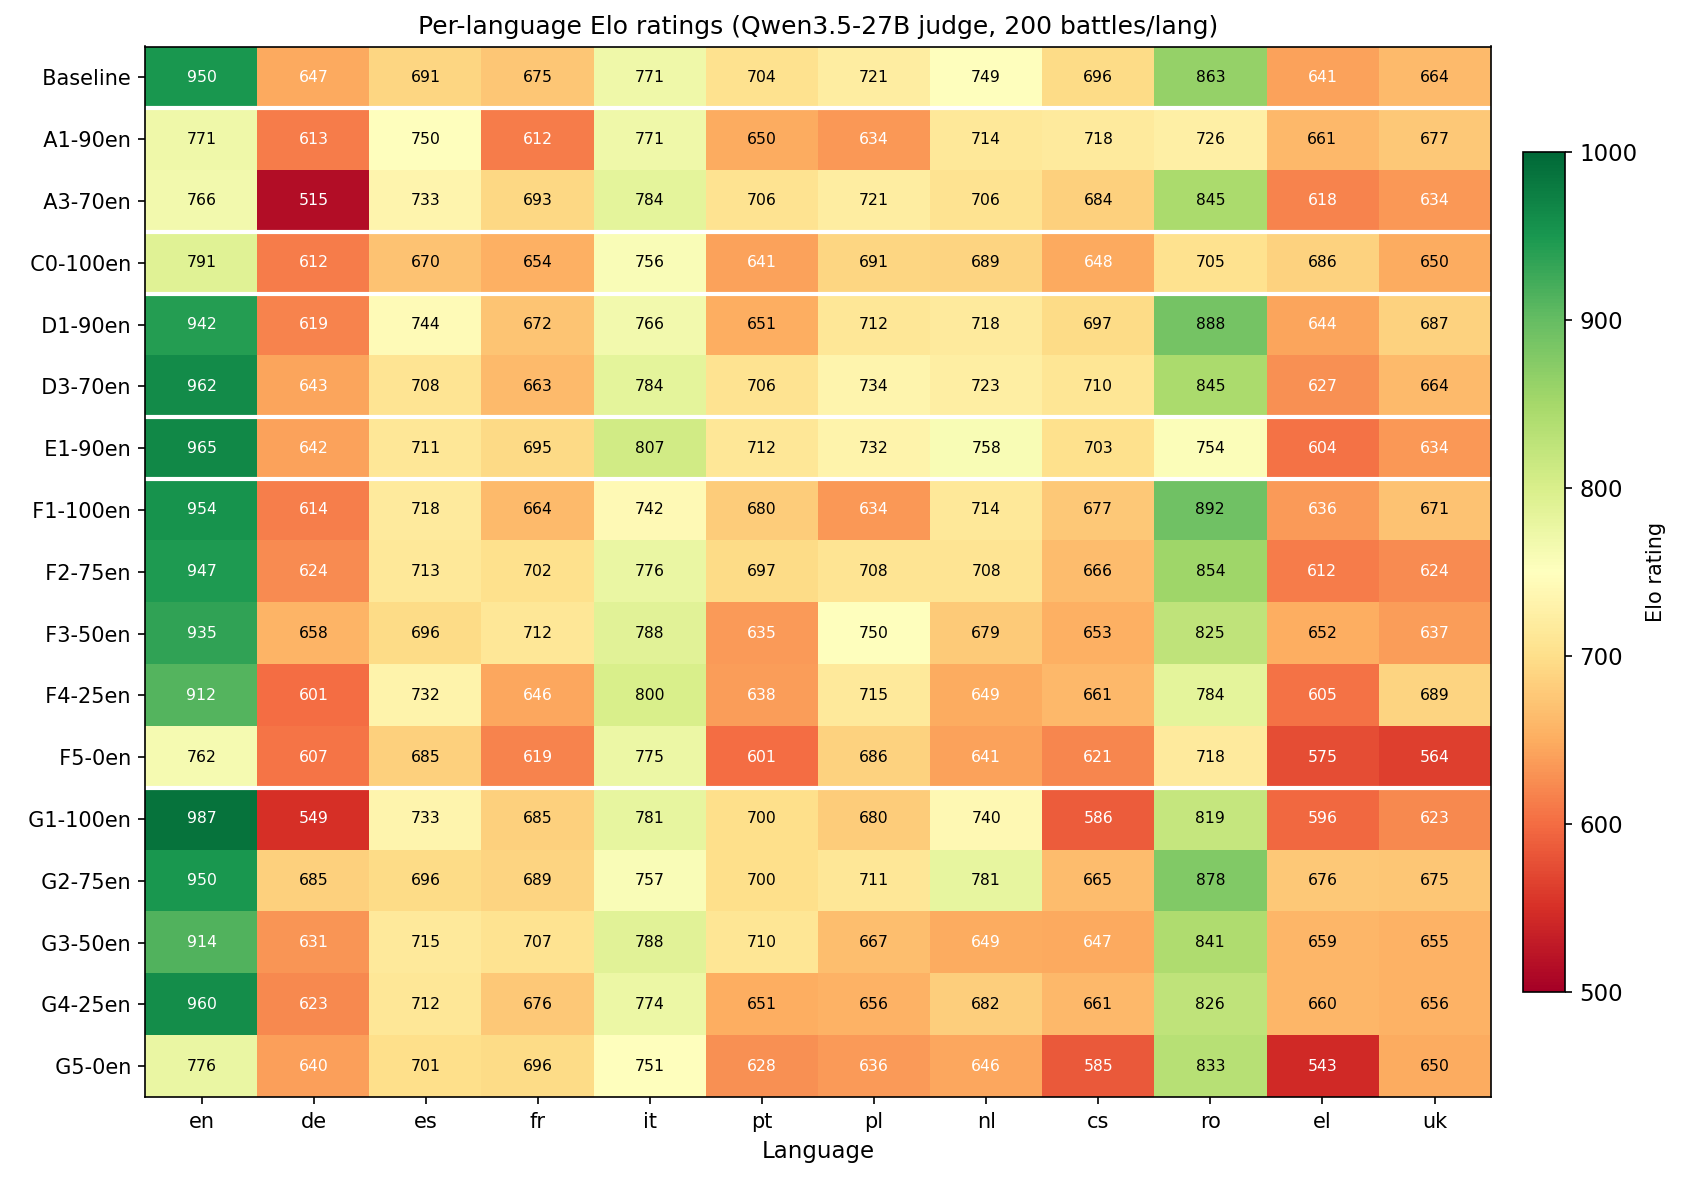
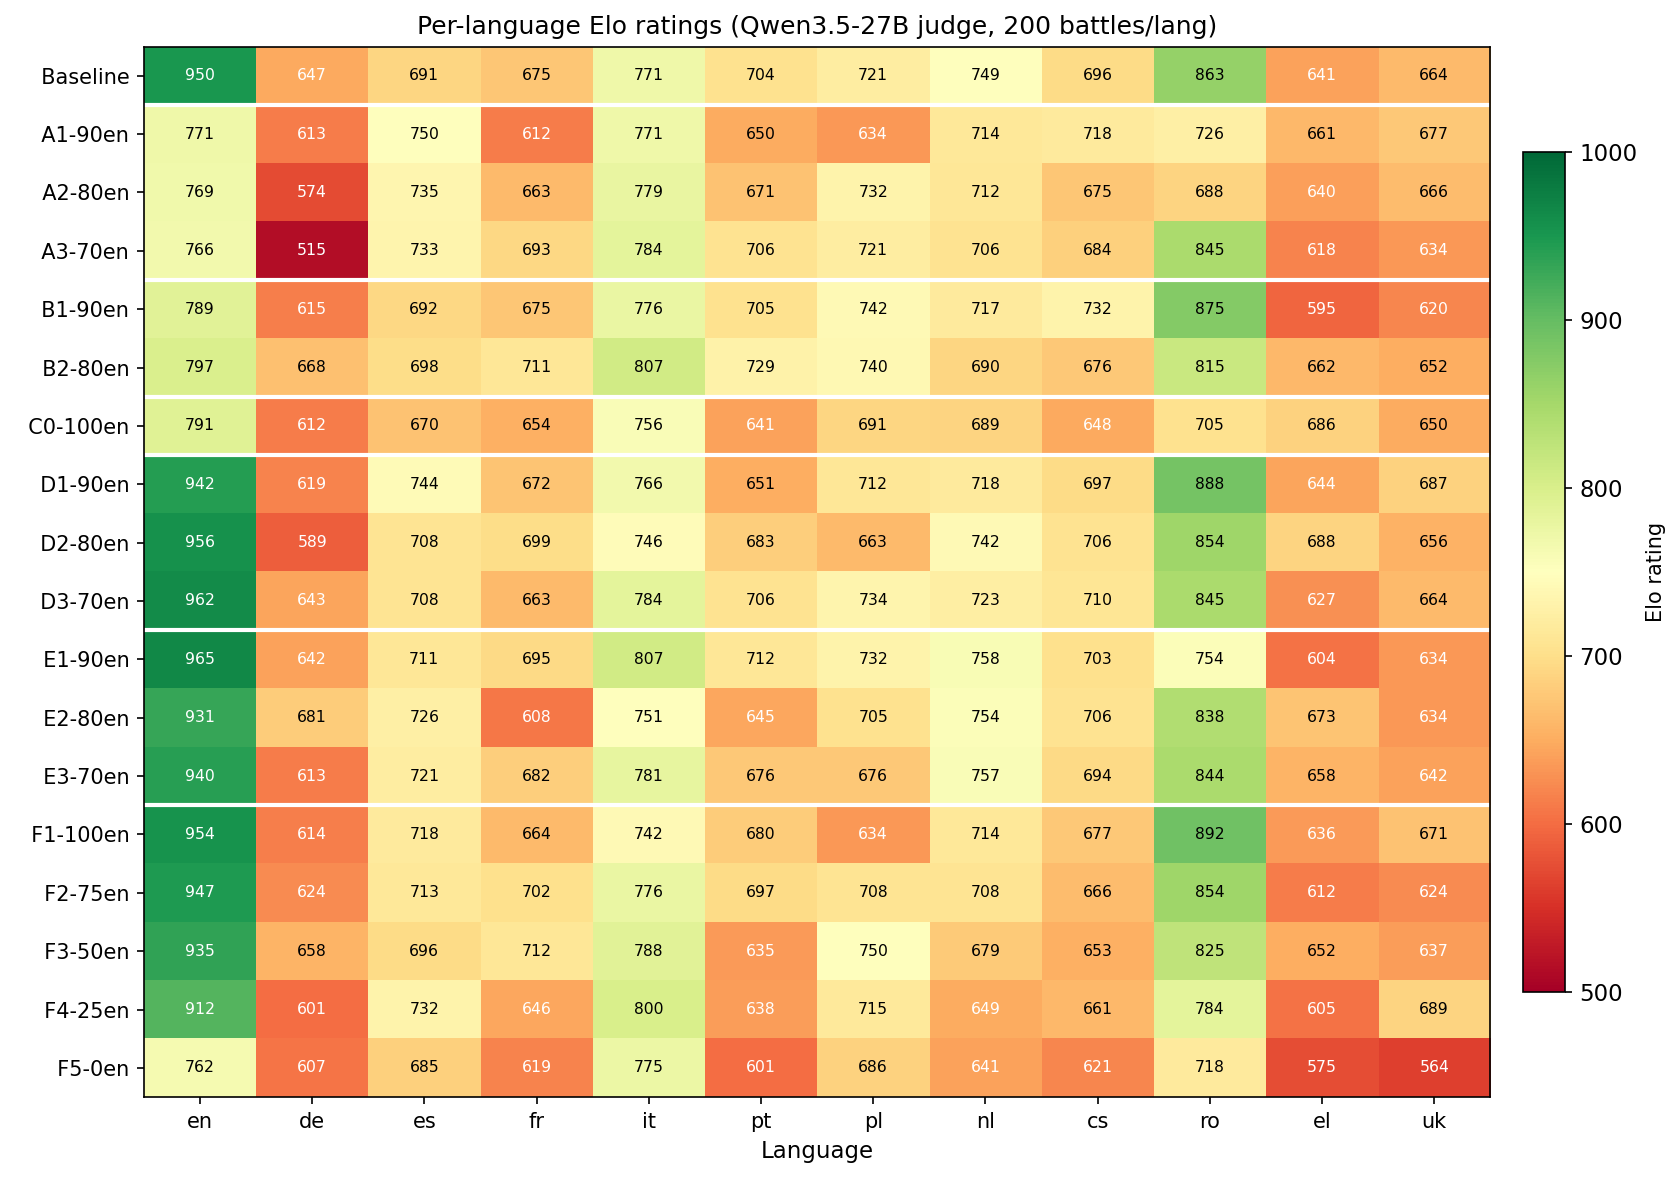
Add all models to heatmap, remove G-track, fix post title

diff --git a/oellm/experiments/multilingual_eu/results/plots/plot_fg_results.py b/oellm/experiments/multilingual_eu/results/plots/plot_fg_results.py
@@ -70,31 +70,32 @@ ALL_MODELS = {
 LANGS = ["en", "de", "es", "fr", "it", "pt", "pl", "nl", "cs", "ro", "el", "uk"]
 HEATMAP_MODELS = [
     "Baseline",
-    "A1-90en", "A3-70en",
+    "A1-90en", "A2-80en", "A3-70en",
+    "B1-90en", "B2-80en",
     "C0-100en",
-    "D1-90en", "D3-70en",
-    "E1-90en",
+    "D1-90en", "D2-80en", "D3-70en",
+    "E1-90en", "E2-80en", "E3-70en",
     "F1-100en", "F2-75en", "F3-50en", "F4-25en", "F5-0en",
-    "G1-100en", "G2-75en", "G3-50en", "G4-25en", "G5-0en",
 ]
 PER_LANG = {
     "Baseline":  [950, 647, 691, 675, 771, 704, 721, 749, 696, 863, 641, 664],
     "A1-90en":   [771, 613, 750, 612, 771, 650, 634, 714, 718, 726, 661, 677],
+    "A2-80en":   [769, 574, 735, 663, 779, 671, 732, 712, 675, 688, 640, 666],
     "A3-70en":   [766, 515, 733, 693, 784, 706, 721, 706, 684, 845, 618, 634],
+    "B1-90en":   [789, 615, 692, 675, 776, 705, 742, 717, 732, 875, 595, 620],
+    "B2-80en":   [797, 668, 698, 711, 807, 729, 740, 690, 676, 815, 662, 652],
     "C0-100en":  [791, 612, 670, 654, 756, 641, 691, 689, 648, 705, 686, 650],
     "D1-90en":   [942, 619, 744, 672, 766, 651, 712, 718, 697, 888, 644, 687],
+    "D2-80en":   [956, 589, 708, 699, 746, 683, 663, 742, 706, 854, 688, 656],
     "D3-70en":   [962, 643, 708, 663, 784, 706, 734, 723, 710, 845, 627, 664],
     "E1-90en":   [965, 642, 711, 695, 807, 712, 732, 758, 703, 754, 604, 634],
+    "E2-80en":   [931, 681, 726, 608, 751, 645, 705, 754, 706, 838, 673, 634],
+    "E3-70en":   [940, 613, 721, 682, 781, 676, 676, 757, 694, 844, 658, 642],
     "F1-100en":  [954, 614, 718, 664, 742, 680, 634, 714, 677, 892, 636, 671],
     "F2-75en":   [947, 624, 713, 702, 776, 697, 708, 708, 666, 854, 612, 624],
     "F3-50en":   [935, 658, 696, 712, 788, 635, 750, 679, 653, 825, 652, 637],
     "F4-25en":   [912, 601, 732, 646, 800, 638, 715, 649, 661, 784, 605, 689],
     "F5-0en":    [762, 607, 685, 619, 775, 601, 686, 641, 621, 718, 575, 564],
-    "G1-100en":  [987, 549, 733, 685, 781, 700, 680, 740, 586, 819, 596, 623],
-    "G2-75en":   [950, 685, 696, 689, 757, 700, 711, 781, 665, 878, 676, 675],
-    "G3-50en":   [914, 631, 715, 707, 788, 710, 667, 649, 647, 841, 659, 655],
-    "G4-25en":   [960, 623, 712, 676, 774, 651, 656, 682, 661, 826, 660, 656],
-    "G5-0en":    [776, 640, 701, 696, 751, 628, 636, 646, 585, 833, 543, 650],
 }
 
 TRACK_COLORS = {
@@ -210,7 +211,7 @@ for i in range(len(models)):
         ax.text(j, i, f"{val:.0f}", ha="center", va="center", fontsize=7.5, color=color)
 
 # Add track separators
-track_breaks = [1, 3, 4, 6, 7, 12, 17]  # after Baseline, A, C, D, E, F, G
+track_breaks = [1, 4, 6, 7, 10, 13]  # after Baseline, A, B, C, D, E
 for b in track_breaks:
     if b < len(models):
         ax.axhline(y=b - 0.5, color="white", linewidth=2)

diff --git a/oellm/experiments/multilingual_eu/results/taskboard_issue_fg_post.md b/oellm/experiments/multilingual_eu/results/taskboard_issue_fg_post.md
@@ -1,6 +1,6 @@
-## Update: Track F & G — extreme En/EU ratio experiments
+## Update: Track F — extreme En/EU ratios with Dolci replay
 
-Following up on the Track A–E results above, we ran two additional tracks to map the full English/EU ratio curve with Dolci replay.
+Following up on the Track A–E results above, we mapped the full English/EU ratio curve (100% → 0% English) with Dolci replay.
 
 ### New tracks
 
